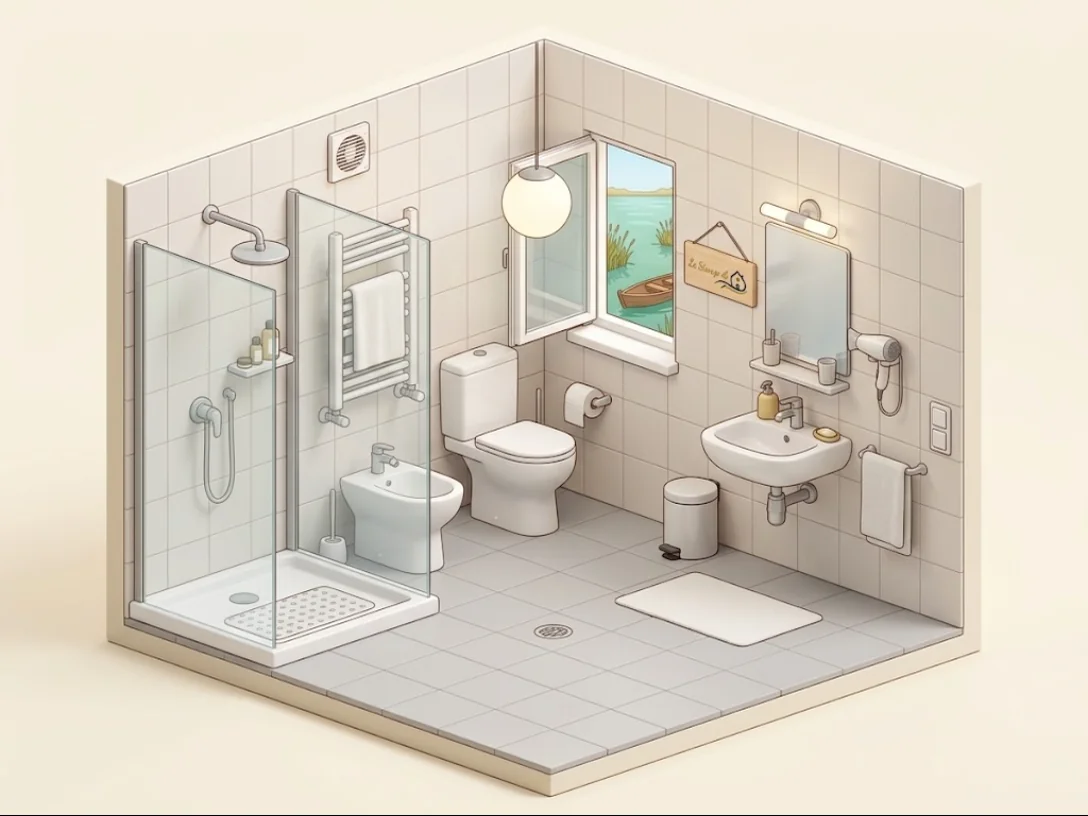
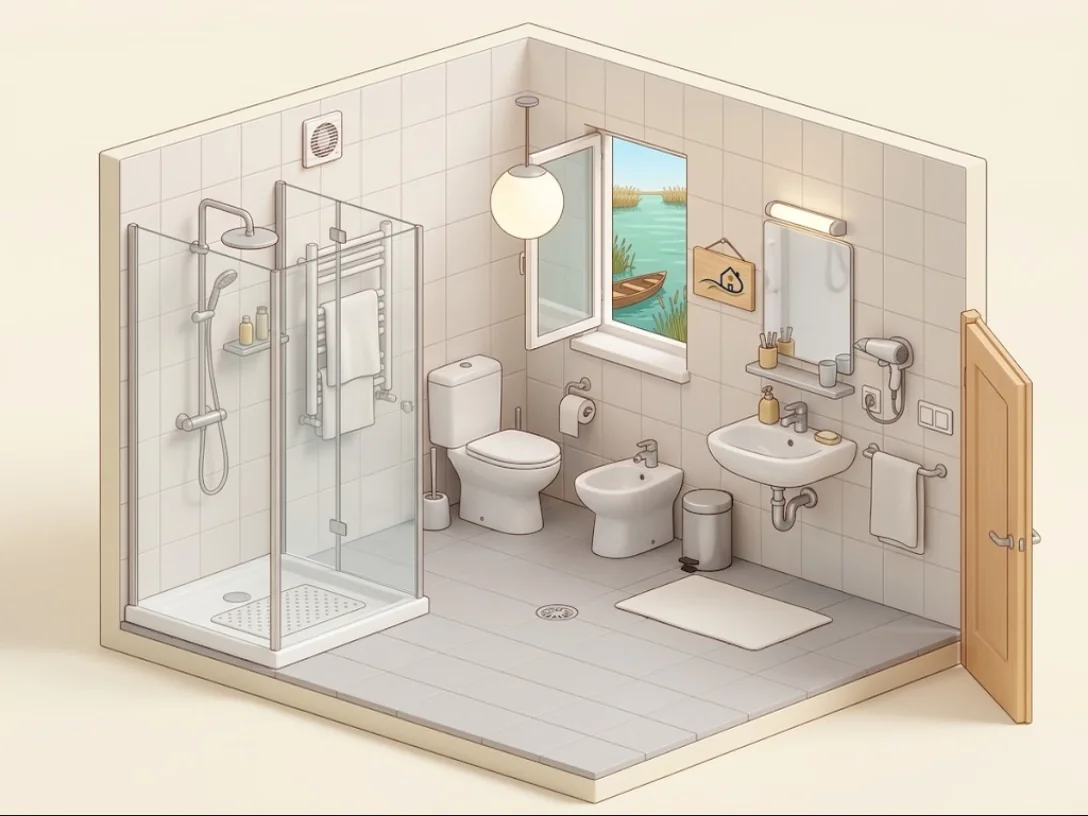
1.47.0: le mappe di Gemini per scale, corridoio, ingresso, terrazzo, lavanderia e balcone; il bagno con la porta; niente euro sulle stelle con la paga a ore

diff --git a/app.js b/app.js
@@ -17,7 +17,7 @@ import * as VOCE from "./voce.js";
 import * as GESTI from "./gesti.js";
 import * as BOCCA from "./bocca.js";
 
-export const VERSIONE = "1.46.0";
+export const VERSIONE = "1.47.0";
 
 // Icone (SVG semplici, tratto 2px). Si usano con ICONA("nome").
 const ICONE_SVG = {
@@ -1799,7 +1799,7 @@ function lavoriInPiu(z, iso, rs) {
 function tesseraLavoro(p, perSignora) {
   const c = camera(p.camera), cls = statoClasse(p), fondo = p.origine === "governante";
   if (p.tipo === "stelle") { const rg = p.stato === "fatta" ? (p.rifiniture || []).filter(r => r.euro) : rifinitureDi(p); const euroG = p.stato === "fatta" ? Number(p.extraRifiniture) || 0 : rg.reduce((x, r) => x + (r.euro || 0), 0); const stato = p.stato === "fatta" ? `Fatte ${L.oraBreve(p.ora)}` : (STATI[p.stato] || STATI.da_fare).testo; const attr = perSignora ? `data-dettagli="${esc(p.id)}"` : `data-pul="${esc(p.id)}"`;
-    return `<button class="tess ${cls} fondo" ${attr}>${!perSignora ? `<span class="tess-pr">${eur(euroG)}</span>` : ""}<span class="tess-nome">⭐ Altre camere</span><span class="tess-lavoro">${rg.length} ${rg.length === 1 ? "rifinitura" : "rifiniture"}${perSignora && euroG ? ` · ${eur(euroG)}` : ""}</span><span class="tess-osp">${esc([...new Set(rg.map(r => r.luogoNome || camera(r.luogo).nome))].slice(0, 3).join(", "))}</span><span class="badge ${cls} tess-stato">${stato}</span>${perSignora && p.stato !== "fatta" ? `<span class="tess-az">Tocca per vedere</span>` : ""}</button>`; }
+    return `<button class="tess ${cls} fondo" ${attr}>${!perSignora && !pagaAOre() ? `<span class="tess-pr">${eur(euroG)}</span>` : ""}<span class="tess-nome">⭐ Altre camere</span><span class="tess-lavoro">${rg.length} ${rg.length === 1 ? "rifinitura" : "rifiniture"}${perSignora && euroG && !pagaAOre() ? ` · ${eur(euroG)}` : ""}</span><span class="tess-osp">${esc([...new Set(rg.map(r => r.luogoNome || camera(r.luogo).nome))].slice(0, 3).join(", "))}</span><span class="badge ${cls} tess-stato">${stato}</span>${perSignora && p.stato !== "fatta" ? `<span class="tess-az">Tocca per vedere</span>` : ""}</button>`; }
   const stato = p.stato === "fatta" ? `Pulita ${L.oraBreve(p.ora)}` : (STATI[p.stato] || STATI.da_fare).testo;
   const azione = perSignora ? (p.stato === "da_fare" ? "Tocca per iniziare" : p.stato === "in_corso" ? "Tocca quando hai finito" : "") : "";
   const attr = perSignora ? `data-dettagli="${esc(p.id)}"` : `data-pul="${esc(p.id)}"`;
@@ -1885,7 +1885,7 @@ function foglioInizio(f) {
     if (lista.zona.length) listaHtml += `<section class="sig-box"><div class="sig-sez-t">Scale, corridoio e lavanderia · oggi</div><div class="sig-lista">${righeZona(lista).map(r => rigaSignora(r, p, statoRiga(r.k), aperta, motivoRiga(r.k))).join("")}</div></section>`;
   } else if (p.tipo === "stelle") {
     const rg = righeGiro(p); const euroG = rg.reduce((x, r) => x + (r.stella.euro || 0), 0);
-    listaHtml = `<div class="sig-guida">Le ★ rifiniture di oggi nelle altre camere: entra, fai la cosa scritta${argonLei() ? "" : ", tocca la riga"}. Niente da pulire oltre questo.${euroG ? ` In tutto <b>${eur(euroG)}</b>.` : ""}</div><section class="sig-box"><div class="sig-sez-t">Camera per camera</div><div class="sig-lista">${rg.map(r => rigaSignora(r, p, statoRiga(r.k), aperta, motivoRiga(r.k))).join("")}</div></section>`;
+    listaHtml = `<div class="sig-guida">Le ★ rifiniture di oggi nelle altre camere: entra, fai la cosa scritta${argonLei() ? "" : ", tocca la riga"}. Niente da pulire oltre questo.${euroG && !pagaAOre() ? ` In tutto <b>${eur(euroG)}</b>.` : ""}</div><section class="sig-box"><div class="sig-sez-t">Camera per camera</div><div class="sig-lista">${rg.map(r => rigaSignora(r, p, statoRiga(r.k), aperta, motivoRiga(r.k))).join("")}</div></section>`;
   } else if (fondo) {
     const r = { k: "G0", tipo: "stella", n: 1, testo: p.titolo, sotto: `${p.minuti || 0} min`, codici: [], stella: { regola: p.regola, luogo: p.camera, come: p.come || "", controllo: "", prodotto: "", note: "" } };
     listaHtml = `<section class="sig-box"><div class="sig-sez-t">Oggi in questa camera · a camera vuota${p.perche?.length ? ` · ${esc(p.perche[0])}` : ""}</div><div class="sig-lista">${rigaSignora(r, p, statoRiga("G0"), aperta, motivoRiga("G0"))}</div></section>`;
@@ -1907,7 +1907,7 @@ function foglioInizio(f) {
   else if (argonLei()) bottone = `<div class="pro-tempo done">${ICONA("spunta")}<span>Pulita alle <b>${L.oraBreve(p.ora)}</b> · brava!</span></div>`;
   return `<div class="inizio sig">
     <div class="inizio-top"><button class="inizio-indietro" data-chiudi>${ICONA("indietro")}<span>Le mie camere</span></button><span class="sig-data"><b class="who-ora">${oraAdesso()}</b>${esc(L.dataBreve(p.data))}</span></div>
-    <div class="inizio-testa ${statoClasse(p)}"><div><div class="inizio-camera">${esc(p.tipo === "stelle" ? "⭐ Altre camere" : c.nome)}</div><div class="inizio-lavoro">${p.tipo === "stelle" ? esc((() => { const rg = righeGiro(p); return `Le rifiniture di oggi · ${rg.length} ${rg.length === 1 ? "rifinitura" : "rifiniture"} · ${eur(rg.reduce((x, r) => x + (r.stella.euro || 0), 0))}`; })()) : sottoTarga}</div></div>${BADGE(p)}</div>
+    <div class="inizio-testa ${statoClasse(p)}"><div><div class="inizio-camera">${esc(p.tipo === "stelle" ? "⭐ Altre camere" : c.nome)}</div><div class="inizio-lavoro">${p.tipo === "stelle" ? esc((() => { const rg = righeGiro(p); return `Le rifiniture di oggi · ${rg.length} ${rg.length === 1 ? "rifinitura" : "rifiniture"}${pagaAOre() ? "" : " · " + eur(rg.reduce((x, r) => x + (r.stella.euro || 0), 0))}`; })()) : sottoTarga}</div></div>${BADGE(p)}</div>
     ${diceHtml}${listaHtml}${sempreHtml}${bidoni}
     ${bottone}
     ${aperta ? `<div class="pro-sec"><button class="nonna-link" data-non-riesco="${esc(p.id)}">Non riesco a fare una cosa</button><button class="nonna-link rosso" data-apri-motivo="${esc(p.id)}|problema">${ICONA("avviso")}C'è un problema</button></div>` : ""}
@@ -2319,7 +2319,7 @@ function foglioControllo(f) {
   const riga = (x) => { const v = f.punti[x.id]; const no = v === false, si = v === true; const fid = x.id; const haFoto = !!f.foto[fid] || !!(c.foto || {})[fid];
     return `<div class="ctrl-punto ${si ? "si" : no ? "no" : ""}"><div class="ctrl-icona">${ICONE_PUNTI[x.icona || (x.richiesta ? "richiesta" : "")] || "✔"}</div><div class="ctrl-testo"><b>${esc(x.breve || (x.richiesta ? "Richiesta di Michele" : ""))}${x.grave ? ` <span class="ctrl-grave">grave</span>` : ""}</b><div>${esc(x.testo)}</div>${no ? `<div class="ctrl-foto">${haFoto ? `<span class="ctrl-foto-ok">📷 foto fatta</span>` : `<label class="pro-btn rosso piccolo">📷 Fai la foto<input type="file" accept="image/*" capture="environment" hidden data-foto-punto="${esc(fid)}"></label><span class="muted small">senza foto il NO non vale</span>`}</div>` : ""}</div><div class="ctrl-sino"><button class="ctrl-si ${si ? "on" : ""}" data-punto-si="${esc(x.id)}">SÌ</button><button class="ctrl-no ${no ? "on" : ""}" data-punto-no="${esc(x.id)}">NO</button></div></div>`; };
   const rigaStella = (st) => { const v = f.stelle[st.k]; const ok = v && v.ok === true, ko = v && v.ok === false; const fid = "stella:" + st.k; const haFoto = !!f.foto[fid] || !!(c.foto || {})[fid];
-    return `<div class="ctrl-punto stella ${ok ? "si" : ko ? "no" : ""}"><div class="ctrl-icona">⭐</div><div class="ctrl-testo"><b>${esc(st.nome)}${st.euro ? ` · ${eur(st.euro)}` : ""}</b><div>${esc(st.come || "Com'è fatta bene: guarda che sia davvero fatta")}</div>${ko ? `<div class="ctrl-foto">${haFoto ? `<span class="ctrl-foto-ok">📷 foto fatta</span>` : `<label class="pro-btn rosso piccolo">📷 Fai la foto<input type="file" accept="image/*" capture="environment" hidden data-foto-punto="${esc(fid)}"></label><span class="muted small">senza foto non vale</span>`}</div>` : ""}</div><div class="ctrl-sino"><button class="ctrl-si ${ok ? "on" : ""}" data-stella-si="${esc(st.k)}">Fatta</button><button class="ctrl-no ${ko ? "on" : ""}" data-stella-no="${esc(st.k)}">Non fatta</button></div></div>`; };
+    return `<div class="ctrl-punto stella ${ok ? "si" : ko ? "no" : ""}"><div class="ctrl-icona">⭐</div><div class="ctrl-testo"><b>${esc(st.nome)}${st.euro && !pagaAOre() ? ` · ${eur(st.euro)}` : ""}</b><div>${esc(st.come || "Com'è fatta bene: guarda che sia davvero fatta")}</div>${ko ? `<div class="ctrl-foto">${haFoto ? `<span class="ctrl-foto-ok">📷 foto fatta</span>` : `<label class="pro-btn rosso piccolo">📷 Fai la foto<input type="file" accept="image/*" capture="environment" hidden data-foto-punto="${esc(fid)}"></label><span class="muted small">senza foto non vale</span>`}</div>` : ""}</div><div class="ctrl-sino"><button class="ctrl-si ${ok ? "on" : ""}" data-stella-si="${esc(st.k)}">Fatta</button><button class="ctrl-no ${ko ? "on" : ""}" data-stella-no="${esc(st.k)}">Non fatta</button></div></div>`; };
   const esitoTesto = esito === "bene" ? `Bene: tutto pagato (${eur(quota)})` : esito === "cosicosi" ? `Così così: questa camera vale il 20% in meno (${eur(Math.round(quota * perc) / 100)} invece di ${eur(quota)})` : `Male: questa camera vale la metà (${eur(Math.round(quota * perc) / 100)} invece di ${eur(quota)}) e c'è il richiamo`;
   const stelleKo = stelle.filter(st => f.stelle[st.k] && f.stelle[st.k].ok === false);
   const pronto = !senzaRisposta && !fotoManca.length;
@@ -3545,11 +3545,11 @@ const MAPPE = {
     letto: [248, 195], "letto.testiera": [285, 212], "letto.piedini": [258, 256], "letto.sotto": [268, 238], "letto.spostato": [240, 220], materasso: [245, 210], cuscini: [266, 192], coperta: [230, 196], comodino: [233, 250], abatjour: [240, 222], telecomandi: [228, 236],
     plafoniera: [231, 110], quadro: [244, 88], finestra: [300, 105], "finestra.vetro": [290, 110], "finestra.vetroEsterno": [316, 112], "finestra.maniglia": [297, 115], "finestra.telaio": [277, 100], "finestra.davanzale": [298, 138], tapparella: [298, 85], zanzariera: [307, 100], tende: [263, 100], "tende.bastone": [300, 70], termosifone: [293, 165],
   } },
-  bagno: { file: "mappa-bagno.webp", sagoma: [[200, 8], [360, 68], [360, 232], [200, 300], [40, 232], [40, 68]], posti: {
-    bagno: [200, 150], "bagno.soffitto": [198, 16], "bagno.pareti": [330, 90], piastrelle: [160, 95], "bagno.pavimento": [120, 245], "bagno.porta": [372, 170], "bagno.interruttori": [345, 157], "bagno.plafoniera": [197, 73], "bagno.finestra": [225, 85], aspiratore: [128, 57],
-    doccia: [85, 150], "doccia.box": [60, 125], "doccia.guide": [108, 175], "doccia.mensola": [92, 135], "doccia.piatto": [100, 230], "doccia.piletta": [90, 219], soffione: [95, 93], miscelatore: [75, 150], silicone: [60, 215], scaldasalviette: [137, 105], asciugamani: [333, 183],
-    wc: [190, 165], "wc.tavoletta": [193, 165], "wc.cassetta": [177, 135], "wc.base": [188, 190], "wc.dietro": [175, 150], scopino: [122, 195], portarotolo: [218, 150], bidet: [140, 180],
-    lavabo: [283, 160], "lavabo.piletta": [280, 158], "lavabo.sotto": [285, 182], rubinetto: [290, 148], mensola: [290, 134], "specchio.bagno": [295, 105], "specchio.luce": [293, 82], phon: [322, 130], bidoncino: [254, 185], "bagno.cestino": [254, 185], tappetino: [265, 225], scarico: [202, 229],
+  bagno: { file: "mappa-bagno.webp", sagoma: [[200, 10], [355, 65], [355, 235], [215, 300], [38, 235], [38, 65]], posti: {   // 1.47.0: rifatto con la porta
+    bagno: [200, 150], "bagno.soffitto": [198, 16], "bagno.pareti": [160, 60], piastrelle: [160, 70], "bagno.pavimento": [150, 250], "bagno.porta": [368, 185], "bagno.interruttori": [343, 154], "bagno.plafoniera": [195, 75], "bagno.finestra": [235, 85], aspiratore: [120, 52],
+    doccia: [85, 150], "doccia.box": [60, 110], "doccia.guide": [105, 160], "doccia.mensola": [92, 128], "doccia.piatto": [95, 222], "doccia.piletta": [88, 218], soffione: [90, 88], miscelatore: [75, 152], silicone: [52, 228], scaldasalviette: [130, 110], asciugamani: [330, 185],
+    wc: [185, 170], "wc.tavoletta": [190, 165], "wc.cassetta": [176, 138], "wc.base": [186, 195], "wc.dietro": [172, 150], scopino: [160, 190], portarotolo: [218, 148], bidet: [232, 180],
+    lavabo: [288, 162], "lavabo.piletta": [285, 160], "lavabo.sotto": [292, 185], rubinetto: [292, 150], mensola: [285, 135], "specchio.bagno": [298, 105], "specchio.luce": [295, 78], phon: [330, 128], bidoncino: [262, 190], "bagno.cestino": [262, 190], tappetino: [268, 228], scarico: [204, 228],
   } },
   cucina: { file: "mappa-cucina.webp", sagoma: [[200, 12], [372, 83], [372, 212], [200, 298], [20, 222], [20, 88]], posti: {
     casa: [200, 150], cucina: [200, 150], "cucina.soffitto": [200, 22], "cucina.pareti": [320, 70], "cucina.pavimento": [110, 235], "cucina.porta": [298, 130], "cucina.finestra": [240, 95], "cucina.tv": [336, 162], divano: [250, 205], tavolo: [165, 215], sedie: [138, 225],
@@ -3558,16 +3558,39 @@ const MAPPE = {
     "cucina.frigo": [62, 170], "cucina.frigo.sopra": [62, 126], "cucina.frigo.dietro": [40, 150], "cucina.frigo.guarnizioni": [72, 165], "pavimento.frigo": [62, 220], bidoni: [228, 250], "cucina.cestino": [263, 238],
   } },
 };
+// 1.47.0: LE MAPPE DI GEMINI ANCHE PER LE ZONE COMUNI E IL BALCONE (corridoio, scale, ingresso, terrazzo, lavanderia, balcone),
+// e il bagno rifatto con la porta. Ogni mappa ha la sua altezza in unità per 400 di larghezza (h: 300 per 4:3, 224 per 16:9).
+const MAPPE_ZONE = {
+  corridoio: { file: "mappa-corridoio.webp", h: 224, sagoma: [[158, 12], [328, 60], [328, 185], [240, 220], [68, 162], [68, 40]], posti: {
+    corridoio: [200, 120], "corridoio.pavimento": [200, 170], "corridoio.pareti": [340, 70], "corridoio.battiscopa": [255, 148], "corridoio.finestra": [115, 78], "corridoio.porte": [233, 105], "corridoio.quadri": [207, 97], "corridoio.luci": [205, 68], estintore: [315, 128], pouf: [118, 140], disegni: [240, 50],
+  } },
+  scale: { file: "mappa-scale.webp", h: 300, sagoma: [[200, 10], [365, 70], [365, 215], [210, 300], [20, 215], [20, 75]], posti: {
+    scale: [230, 190], "scale.gradini": [255, 195], "scale.alzate": [230, 205], ringhiera: [165, 150], corrimano: [290, 125], pianerottolo: [120, 190], "scale.battiscopa": [322, 190], "scale.finestra": [110, 100], "scale.luci": [221, 52], "scale.pareti": [60, 90], disegni: [265, 85],
+  } },
+  ingresso: { file: "mappa-ingresso.webp", h: 300, sagoma: [[200, 15], [375, 85], [375, 215], [200, 295], [22, 215], [22, 85]], posti: {
+    ingresso: [283, 120], "ingresso.portone": [283, 120], maniglione: [280, 140], citofono: [243, 108], targhe: [345, 135], cassetta: [58, 135], "ingresso.zerbini": [262, 190], "ingresso.luci": [222, 52], "ingresso.pavimento": [190, 225],
+  } },
+  terrazzo: { file: "mappa-terrazzo.webp", h: 300, sagoma: [[197, 100], [378, 160], [378, 215], [200, 298], [20, 222], [20, 165]], posti: {
+    terrazzo: [200, 180], "terrazzo.pavimento": [130, 235], muretto: [300, 128], "terrazzo.ringhiera": [300, 128], "terrazzo.bidoni": [75, 190], "terrazzo.lampade": [198, 63], "terrazzo.stendino": [262, 170], "terrazzo.piante": [168, 145], "terrazzo.scarico": [265, 240],
+  } },
+  lavanderia: { file: "mappa-lavanderia.webp", h: 300, sagoma: [[200, 12], [378, 85], [378, 215], [200, 298], [20, 218], [20, 80]], posti: {
+    lavanderia: [235, 115], "lavanderia.scaffali": [235, 115], "lavanderia.lavatrice": [85, 175], "lavanderia.prodotti": [85, 105], cestoni: [180, 235], carrello: [270, 215], "lavanderia.pavimento": [300, 250],
+  } },
+  balcone: { file: "mappa-balcone.webp", h: 300, sagoma: [[200, 15], [385, 105], [385, 215], [200, 300], [25, 215], [25, 75]], posti: {
+    balcone: [200, 180], "balcone.pavimento": [300, 210], portafinestra: [105, 130], unita: [165, 78], "balcone.lampada": [60, 108], "balcone.muro": [192, 120], ringhiera: [130, 212], muretto: [130, 212], "balcone.mobili": [175, 190], stendino: [255, 165], piante: [205, 140], "balcone.scarico": [262, 238],
+  } },
+};
+for (const [k, v] of Object.entries(MAPPE_ZONE)) MAPPE[k] = v;
 let mappeRotte = false;   // un file delle mappe non c'è (404): si torna a matita, per tutta la sessione
 document.addEventListener("error", (e) => { const t = e.target; if (t && t.classList && t.classList.contains("mt-foto") && !mappeRotte) { mappeRotte = true; try { disegna(); } catch (err) {} } }, true);
 // il pezzo «foto» per isoDisegno: il disegno di Gemini largo tutto il foglio (400 × 300), con i posti già in 2D
-function mappaPezzo(id, titolo) { const m = MAPPE[id]; if (!m || mappeRotte) return null; return { titolo, foto: id, file: m.file, W: 400, H: 300, posti: m.posti, sagoma: m.sagoma }; }
+function mappaPezzo(id, titolo) { const m = MAPPE[id]; if (!m || mappeRotte) return null; return { id, titolo, foto: id, file: m.file, W: 400, H: m.h || 300, posti: m.posti, sagoma: m.sagoma }; }   // 1.47.0: id (per non ripetere i pezzi) e altezza propria
 function isoDisegno(opz) {
   const E = opz.esc, W = 400, f = (n) => n.toFixed(1);
   const pezzi = [];
   const tipo = opz.tipo || (opz.casa ? "casa" : "camera");
   // 1.37.0: le stanze riempiono il foglio (la camera quasi tutta la larghezza; il bagno, la cucina e le zone comuni di più)
-  if (tipo === "comune") { const pz = isoPezzoComune(opz.luogo || ""); if (pz) pezzi.push(pz); }
+  if (tipo === "comune") { const pz = isoPezzoComune(opz.luogo || ""); if (pz) pezzi.push(mappaPezzo(pz.id, pz.titolo) || pz); }   // 1.47.0: la mappa di Gemini, se c'è
   else if (tipo === "casa") {
     pezzi.push(mappaPezzo("cucina", "La cucina e il soggiorno") || { titolo: "La cucina e il soggiorno", fa: (o) => isoCucina(o), s: 23, U: 11, V: 8, H: 5.5 });   // 1.45.0: la mappa di Gemini, se c'è
     pezzi.push(mappaPezzo("camera", opz.piani > 1 ? "Le camere (anche di sopra)" : "Le camere") || { titolo: opz.piani > 1 ? "Le camere (anche di sopra)" : "Le camere", fa: (o) => isoCamera(o, { ...opz, soloLetti: true, singola: false }), s: 26, U: 9, V: 6, H: 5.2 });
@@ -3576,8 +3599,8 @@ function isoDisegno(opz) {
     pezzi.push(mappaPezzo("camera", "La camera") || { titolo: "La camera", fa: (o) => isoCamera(o, opz), s: 28.6, U: 9, V: 6, H: 5.2 });   // 1.45.0: la mappa di Gemini, se c'è
     pezzi.push(mappaPezzo("bagno", "Il bagno") || { titolo: "Il bagno", fa: (o) => isoBagno(o, {}), s: 30, U: 5.6, V: 6.4, H: 5.5 });
   }
-  if (opz.balcone) pezzi.push({ titolo: "Il balcone", fa: (o) => isoBalcone(o), s: 30, U: 6.0, V: 4.2, H: 3.6 });
-  for (const id of opz.extra || []) { const pz = isoPezzoComune(id); if (pz && !pezzi.some(x => x.id === pz.id)) pezzi.push(pz); }
+  if (opz.balcone) pezzi.push(mappaPezzo("balcone", "Il balcone") || { titolo: "Il balcone", fa: (o) => isoBalcone(o), s: 30, U: 6.0, V: 4.2, H: 3.6 });   // 1.47.0
+  for (const id of opz.extra || []) { const pz = isoPezzoComune(id); if (pz && !pezzi.some(x => x.id === pz.id)) pezzi.push(mappaPezzo(pz.id, pz.titolo) || pz); }
   let y = 34, corpo = "", scritte = "", titoli = "", foto = "";
   const posti = {}, scatole = [], diPezzo = {}, bande = [];   // posti: posto → [x, y] sullo schermo (il primo pezzo che ce l'ha vince); scatole: dove stanno le scritte (i numeri e le parole le evitano); bande: lo spazio di ogni pezzo
   for (const pz of pezzi) {
@@ -4177,7 +4200,7 @@ function difettoVisto(id) {
   const el = document.createElement("div"); el.className = "conferma";
   el.innerHTML = `<div class="conferma-box chiusura ag-conferma" role="dialog"><div class="chiusura-t">${ICONA("avviso")}<span>${esc(pianoBreve(v.zona))} di ${esc(L.dataBreve(v.data))}: cosa hai trovato?</span></div>
     <p class="muted small" style="margin:0 0 8px">${v.vistoOra && v.vistoDa !== "direzione" ? `Visto da ${esc(v.vistoNome || SIG(v.vistoDa))} alle ${esc(L.oraBreve(v.vistoOra))}: «non fatta» le toglie ${eur(argonConf().vistoEuro)} e a ${esc(v.finitoDa || SIG(v.zona))} la rifinitura.` : "Non c'è ancora il Visto di una collega: si toglie solo la rifinitura."}${v.rodaggio ? " Siamo in rodaggio: lo segno, ma non tolgo niente." : ""}</p>
-    <div class="ag-difetti">${voci.map((x, i) => `<div class="ag-difetto"><b>${x.rif ? "⭐ " : ""}${esc(x.nome)}${x.euro ? ` <small>${eur(x.euro)}</small>` : ""}</b><div class="ag-difetto-tasti"><button class="btnsm" data-d="${i}|no">Non fatta</button>${x.rif && altra ? `<button class="btnsm ghost" data-d="${i}|rifatta">L'ha fatta ${esc(SIG(altra))}</button>` : ""}</div></div>`).join("")}</div>
+    <div class="ag-difetti">${voci.map((x, i) => `<div class="ag-difetto"><b>${x.rif ? "⭐ " : ""}${esc(x.nome)}${x.euro && !pagaAOre() ? ` <small>${eur(x.euro)}</small>` : ""}</b><div class="ag-difetto-tasti"><button class="btnsm" data-d="${i}|no">Non fatta</button>${x.rif && altra ? `<button class="btnsm ghost" data-d="${i}|rifatta">L'ha fatta ${esc(SIG(altra))}</button>` : ""}</div></div>`).join("")}</div>
     <button class="big close" data-no>Lascia stare</button></div>`;
   document.body.appendChild(el);
   el.querySelectorAll("[data-d]").forEach(b => b.onclick = async () => { const [i, modo] = b.dataset.d.split("|"); el.remove(); await segnaDifetto(id, voci[+i], modo, altra); });
@@ -4968,7 +4991,7 @@ function stelleSalvate(p) {
 function righeZona(l) { if (!l || !l.zona.length) return []; const giorno = l.zona.filter(r => r.sempre), ritmo = l.zona.filter(r => !r.sempre); return [...(giorno.length ? [{ k: "Zgiorno", tipo: "riga", n: "✓", testo: "Come ogni giorno", sotto: giorno.map(r => r.testo.toLowerCase()).join(", "), codici: [], minuti: giorno.reduce((s, r) => s + (r.minuti || 0), 0) }] : []), ...ritmo]; }
 // Le cose che la signora tocca: i BLOCCHI (un tasto Fatto per blocco: le righe dentro si leggono), le STELLE una per una, le zone comuni
 // le righe del giro delle stelle: una per stella, col nome della camera davanti
-function righeGiro(p) { return rifinitureDi(p).map((st, i) => ({ k: chiaveStella(st), tipo: "stella", n: i + 1, testo: `${st.luogoNome || camera(st.luogo).nome}: ${st.parte ? `${st.superficie}: ${st.parte}` : st.superficie || st.nome}`, sotto: `${st.minuti} min${st.euro ? " · " + eur(st.euro) : ""}${st.prodotto && !/^nessuno/.test(st.prodotto) ? " · " + st.prodotto : ""}`, codici: [st.codice], minuti: st.minuti, stella: st, luogo: st.luogo, blocco: "giro" })); }
+function righeGiro(p) { return rifinitureDi(p).map((st, i) => ({ k: chiaveStella(st), tipo: "stella", n: i + 1, testo: `${st.luogoNome || camera(st.luogo).nome}: ${st.parte ? `${st.superficie}: ${st.parte}` : st.superficie || st.nome}`, sotto: `${pagaAOre() ? "" : `${st.minuti} min${st.euro ? " · " + eur(st.euro) : ""}`}${st.prodotto && !/^nessuno/.test(st.prodotto) ? (pagaAOre() ? "" : " · ") + st.prodotto : ""}`, codici: [st.codice], minuti: st.minuti, stella: st, luogo: st.luogo, blocco: "giro" })); }
 function unitaDi(p) { if (p && p.tipo === "stelle") return righeGiro(p); const l = listaDi(p); if (!l) return []; return [...l.blocchi.filter(b => b.righe.length).map(b => ({ k: b.k, tipo: "blocco", testo: b.nome, codici: b.codici, n: b.righe.length, minuti: b.minuti, blocco: b.id })), ...l.blocchi.flatMap(b => b.stelle), ...righeZona(l)]; }
 function righeDi(p) { return unitaDi(p); }
 // Le spunte della signora su una camera aperta: restano sul telefono finché non preme FATTO (poi si salvano sulla pulizia)

diff --git a/sw.js b/sw.js
@@ -3,7 +3,7 @@
 //  Quando si pubblica una versione nuova bisogna cambiare il numero qui sotto:
 //  così i telefoni si accorgono dell'aggiornamento.
 // ============================================================================
-const VERSIONE = "1.46.0";
+const VERSIONE = "1.47.0";
 const CACHE = "ricci-pulizie-" + VERSIONE;
 // 1.43.0: I FILMATI STANNO IN UNA CACHE A PARTE CHE RESTA DA UNA VERSIONE ALL'ALTRA (prima ogni aggiornamento li
 // riscaricava tutti: 16 MB a telefono a ogni versione). Si scaricano la prima volta che servono (la strada dei filmati)
@@ -13,7 +13,7 @@ const FILMATI = ["./cons-parla.mp4", "./cons-riposo.mp4", "./capo-parla.mp4", ".
 const FILE_BASE = [
   "./", "./index.html", "./style.css", "./app.js", "./db.js", "./logica.js", "./regole.js",
   "./excel.js", "./dettatura.js", "./governante.js", "./chat.js", "./parole.js", "./ia.js", "./lettura.js", "./voce.js", "./gesti.js", "./catalogo.js", "./firebase-config.js", "./firebase-bundle.js", "./manifest.json", "./sfondo-laguna.svg", "./sfondo-manutenzione.svg", "./sfondo-bolle.svg",
-  "./icon-192.png", "./icon-512.png", "./icon-maskable-512.png", "./apple-touch-icon.png", "./cons-film.json", "./cons-poster.webp", "./capo-poster.webp", "./capo-viso.webp", "./capo-poster-3d.webp", "./stanza-governante.webp", "./mappa-camera.webp", "./mappa-bagno.webp", "./mappa-cucina.webp", "./stanza-altro.webp", "./stanza-paghe.webp", "./lavoro-bagno.webp", "./lavoro-biancheria.webp", "./lavoro-camera.webp", "./lavoro-cucina.webp", "./lavoro-finale.webp", "./lavoro-letto.webp", "./lavoro-partenza.webp", "./lavoro-pavimenti.webp", "./stanza-manutenzione.webp", "./stanza-prospetto.webp", "./stanza-segreteria.webp", "./stanza-signore.webp", "./stanza-sofia.webp", "./segr-poster-3d.webp", "./cons-poster-3d2.webp", "./cons-fondo-3d.webp", "./avorio-parete.webp", "./cornice-noce.webp", "./fonts/atkinson-hyperlegible-next-latin-400-normal.woff2", "./fonts/atkinson-hyperlegible-next-latin-600-normal.woff2", "./fonts/atkinson-hyperlegible-next-latin-800-normal.woff2",
+  "./icon-192.png", "./icon-512.png", "./icon-maskable-512.png", "./apple-touch-icon.png", "./cons-film.json", "./cons-poster.webp", "./capo-poster.webp", "./capo-viso.webp", "./capo-poster-3d.webp", "./stanza-governante.webp", "./mappa-corridoio.webp", "./mappa-scale.webp", "./mappa-ingresso.webp", "./mappa-terrazzo.webp", "./mappa-lavanderia.webp", "./mappa-balcone.webp", "./mappa-camera.webp", "./mappa-bagno.webp", "./mappa-cucina.webp", "./stanza-altro.webp", "./stanza-paghe.webp", "./lavoro-bagno.webp", "./lavoro-biancheria.webp", "./lavoro-camera.webp", "./lavoro-cucina.webp", "./lavoro-finale.webp", "./lavoro-letto.webp", "./lavoro-partenza.webp", "./lavoro-pavimenti.webp", "./stanza-manutenzione.webp", "./stanza-prospetto.webp", "./stanza-segreteria.webp", "./stanza-signore.webp", "./stanza-sofia.webp", "./segr-poster-3d.webp", "./cons-poster-3d2.webp", "./cons-fondo-3d.webp", "./avorio-parete.webp", "./cornice-noce.webp", "./fonts/atkinson-hyperlegible-next-latin-400-normal.woff2", "./fonts/atkinson-hyperlegible-next-latin-600-normal.woff2", "./fonts/atkinson-hyperlegible-next-latin-800-normal.woff2",
   "./bocca.js", "./viso.js", "./cons-base.webp", "./cons-indica.webp", "./cons-cuore.webp", "./cons-pollice.webp", "./cons-osx.webp", "./cons-odx.webp", "./cons-osu.webp", "./cons-scena.webp", "./cons-saluto.webp", "./cons-riposo.webp", "./cons-b1.webp", "./cons-b2.webp", "./cons-b3.webp", "./cons-occhi.webp", "./cons-felice.webp", "./cons-testa.webp", "./cons-testa-occhi.webp",
   "./marmo-blu.webp", "./marmo-avorio.webp", "./marmo-biglia.webp", "./fonts/dancing-script-latin-700-normal.woff2", "./fonts/cormorant-garamond-latin-600-normal.woff2", "./fonts/cormorant-garamond-latin-700-normal.woff2", "./fonts/cormorant-garamond-latin-600-italic.woff2", "./fonts/plus-jakarta-sans-latin-600-normal.woff2", "./fonts/plus-jakarta-sans-latin-700-normal.woff2",
   "./fonts/fredoka-latin-600-normal.woff2", "./fonts/fredoka-latin-700-normal.woff2",

diff --git a/style.css b/style.css
@@ -7347,3 +7347,5 @@ body:has(.sheet) .sgr-tendina,body:has(.sheet) .sgr-fantasma,body:has(.conferma)
 
 /* ---- 1.46.0: piu disegni uno sotto l altro nella scheda «Altre camere» (uno per camera): un po di aria tra uno e l altro ---- */
 .mt-camera + .mt-camera{margin-top:14px}
+
+/* ---- 1.47.0: niente di nuovo nello stile: le mappe delle zone comuni usano .mt-foto della 1.45 ---- */

diff --git a/specifiche-governante.md b/specifiche-governante.md
@@ -2461,3 +2461,12 @@ Michele: «Selena fa delle stelle nelle camere di Lucia e Lucia nelle camere di 
 - COME: disegnoCamera(p) ora, per le pulizie di tipo stelle, raggruppa le rifiniture per camera (rifinitureOggi filtrate per pulizia) e chiama disegnoLuogo(camera, segni, {nome:true}) per ognuna; disegnoLuogo è la parte di prima (isoDisegno, legenda, titolo), usata anche dalle camere normali.
 - In attesa (limite giornaliero di Gemini fino alle 16:05): le mappe di Gemini per scale, corridoio, ingresso, terrazzo, lavanderia e balcone, il bagno con la porta, la camera con la zanzariera (1.47.0).
 - Prove: prova1460 (la scheda «Altre camere» della scena di Sofia: un disegno per camera col nome, le frecce sulle stelle giuste, la legenda) più tutto quello della 1.45.
+
+## 147. La 1.47.0 (3 novembre, pomeriggio): LE MAPPE DI GEMINI ANCHE PER LE ZONE COMUNI E IL BALCONE · IL BAGNO CON LA PORTA · NIENTE «€» SULLE STELLE
+
+Michele: «Per le stelle nel corridoio, sul terrazzo, negli spazi comuni, anche lì ci devono essere dei disegni»; «le stelle non vengono pagate: sono comprese nelle 10 € l'ora».
+
+- SEI MAPPE NUOVE (mappa-corridoio.webp 16:9, mappa-scale.webp, mappa-ingresso.webp, mappa-terrazzo.webp, mappa-lavanderia.webp, mappa-balcone.webp): stesso stile delle altre, senza persone né scritte, con tutte le cose dei disegni a matita di prima: il corridoio (finestra, tre porte, quadri, luci, estintore, pouf, murale), le scale (gradini con le alzate, pianerottolo, ringhiera, corrimano, finestra, luce, murale, battiscopa), l'ingresso (portone col maniglione, citofono, targhe, luci, cassetta della posta, zerbini), il terrazzo (muretto, bidoni, lampione, stendino, piante, scarico), la lavanderia (lavatrice e asciugatrice, mensola dei prodotti, scaffali della biancheria, cestoni, carrello), il balcone (portafinestra, unità del clima, lampada, tubo, ringhiera, tavolino con le sedie, stendino, piante, scarico). isoDisegno le usa al posto dei pezzi a matita (isoPezzoComune e il balcone), con la loro altezza (MAPPE[id].h: 224 per il corridoio 16:9). I pezzi a matita restano di riserva (mappeRotte).
+- IL BAGNO RIFATTO: al quarto tentativo Gemini ha messo la porta del bagno in primo piano sulla parete di destra, aperta verso fuori, senza coprire niente: tutte le coordinate del bagno rilette. La camera resta quella della 1.45 (il tentativo con la zanzariera è venuto in verticale, inutilizzabile): «zanzariera» punta alla finestra.
+- NIENTE «€» SULLE STELLE con la paga a ore (pagaAOre): nella tessera «Altre camere» del titolare e della signora, nella testata e nella guida della scheda «Altre camere», nelle righe delle rifiniture (righeGiro: niente «N min · €»), nei controlli e nei difetti del Visto. Il valore in euro resta dentro (serve al piano e ai conti quando la paga torna a camera).
+- Prove: prova1470 (le mappe delle zone comuni nel disegno: scale, corridoio, terrazzo, lavanderia, ingresso con le <image> e i posti; il balcone come mappa; il bagno con la porta; niente «€» sulle stelle a ore) più tutto quello della 1.46.
